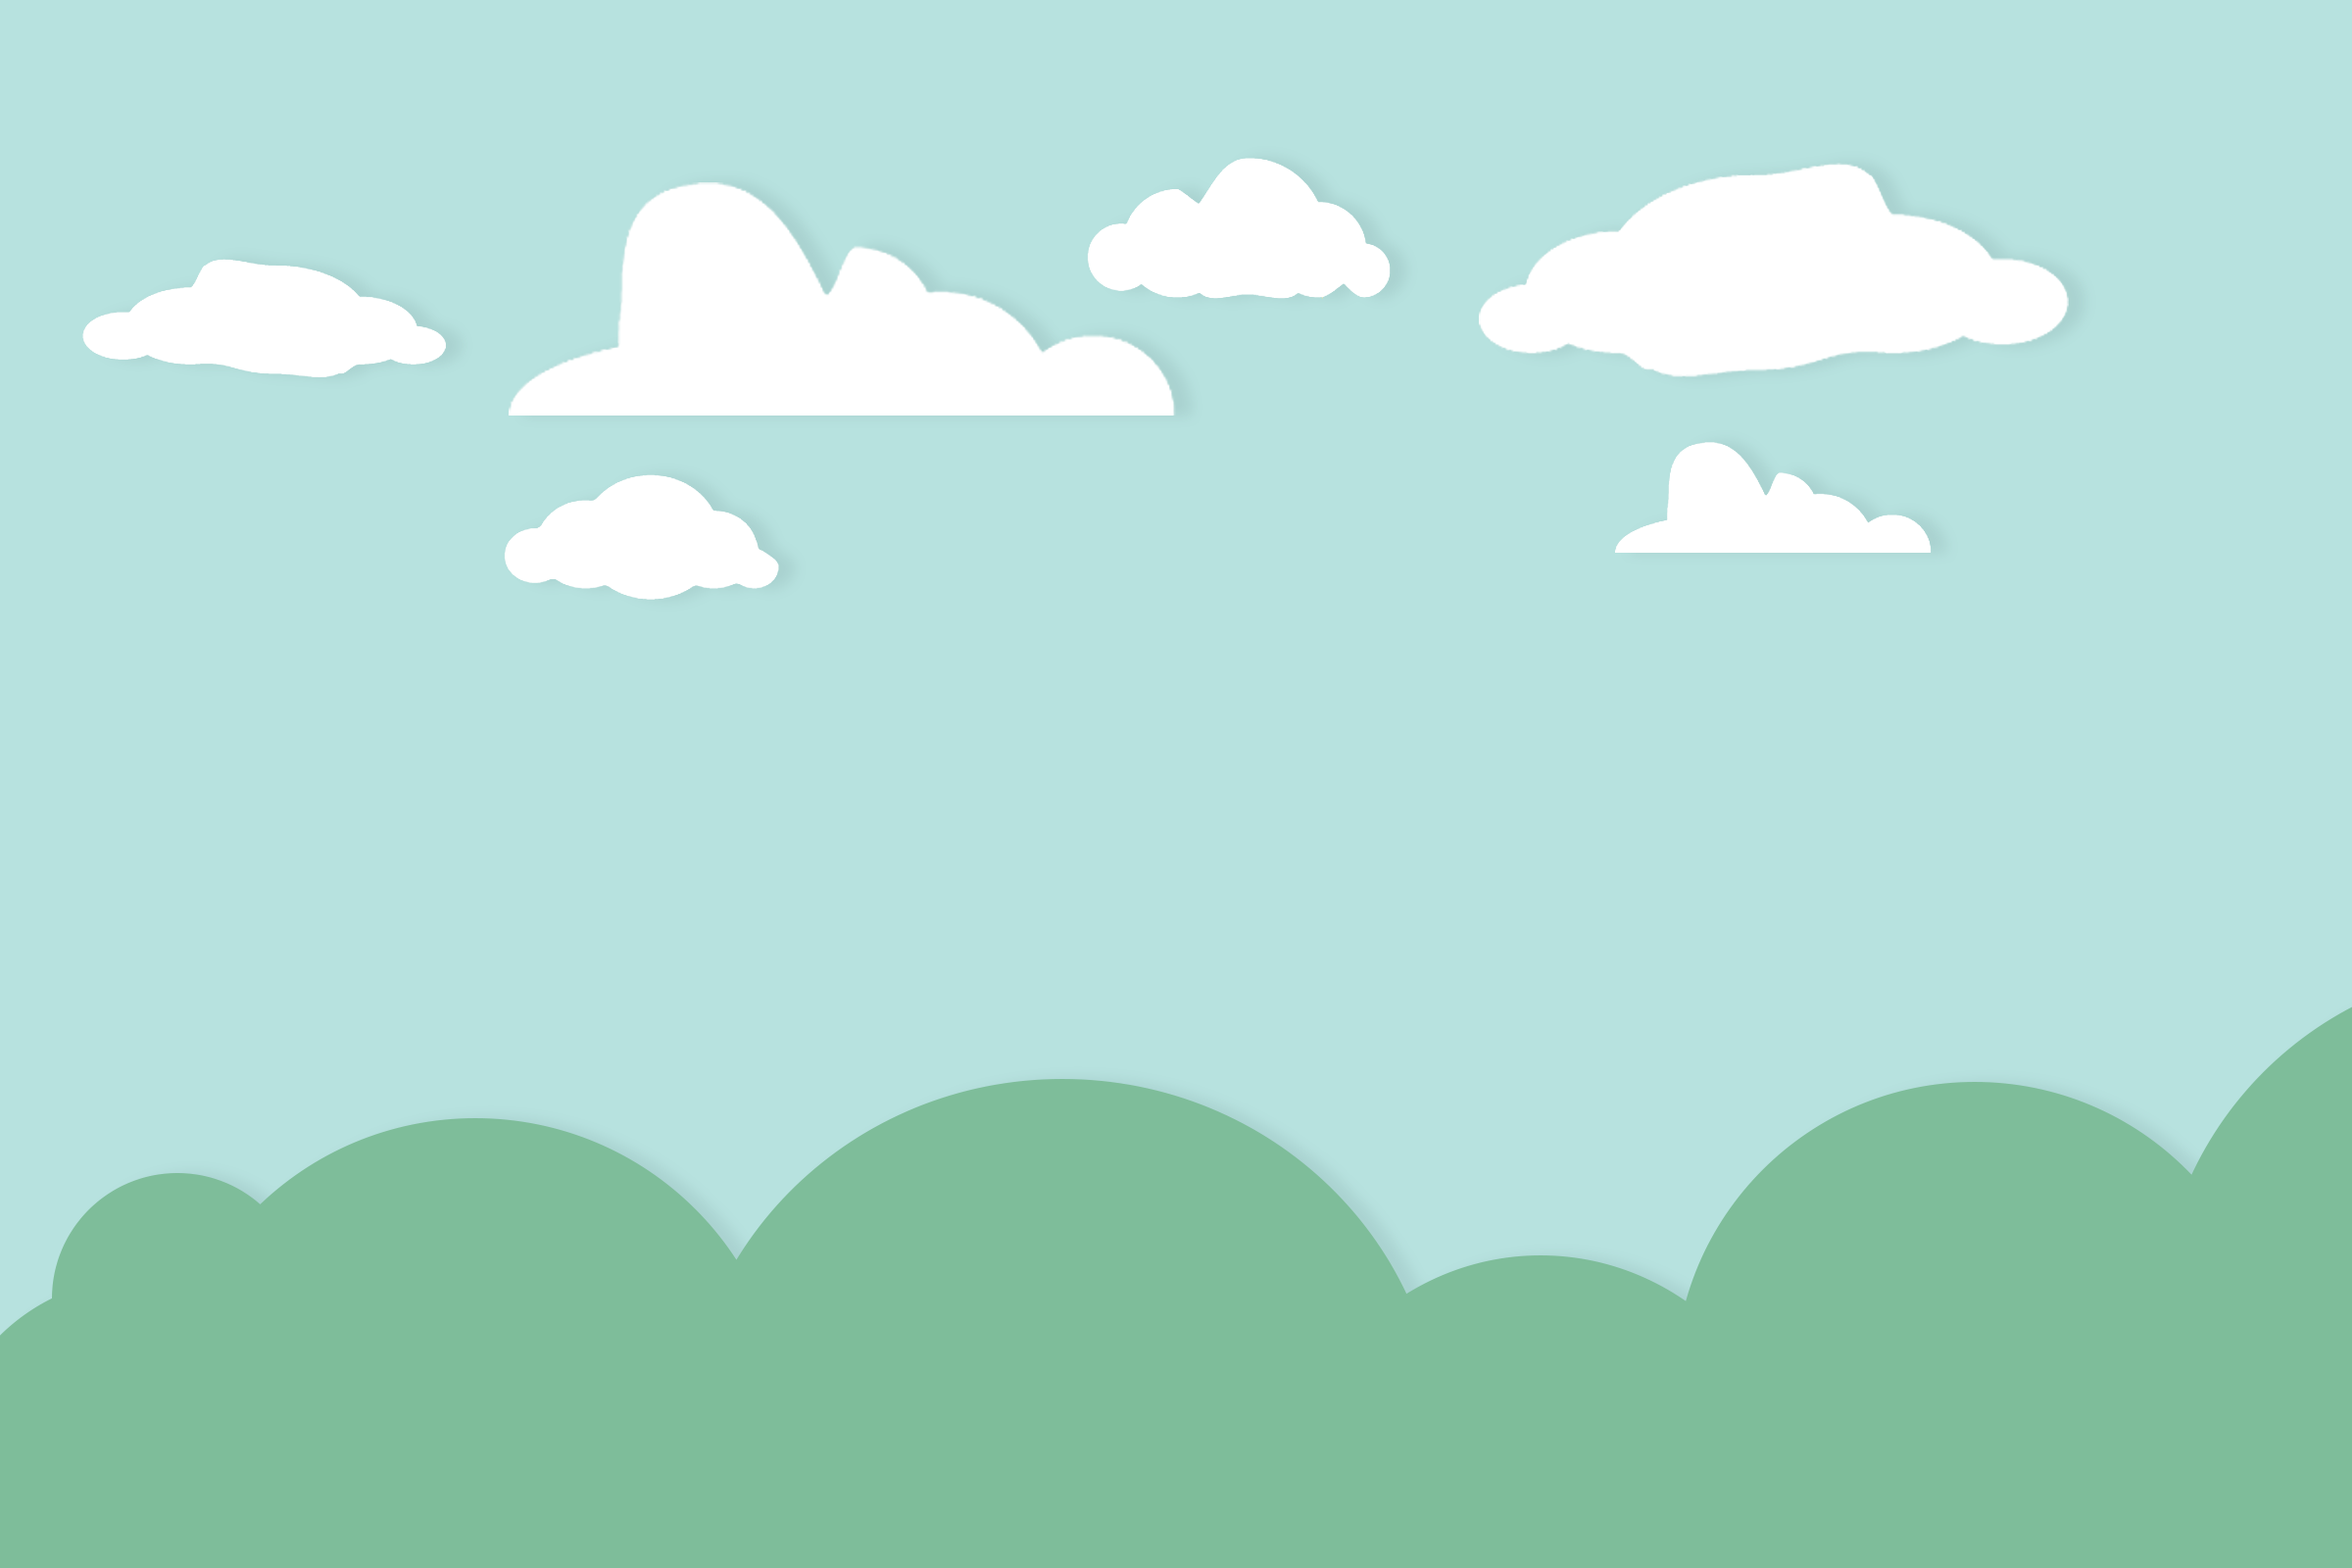
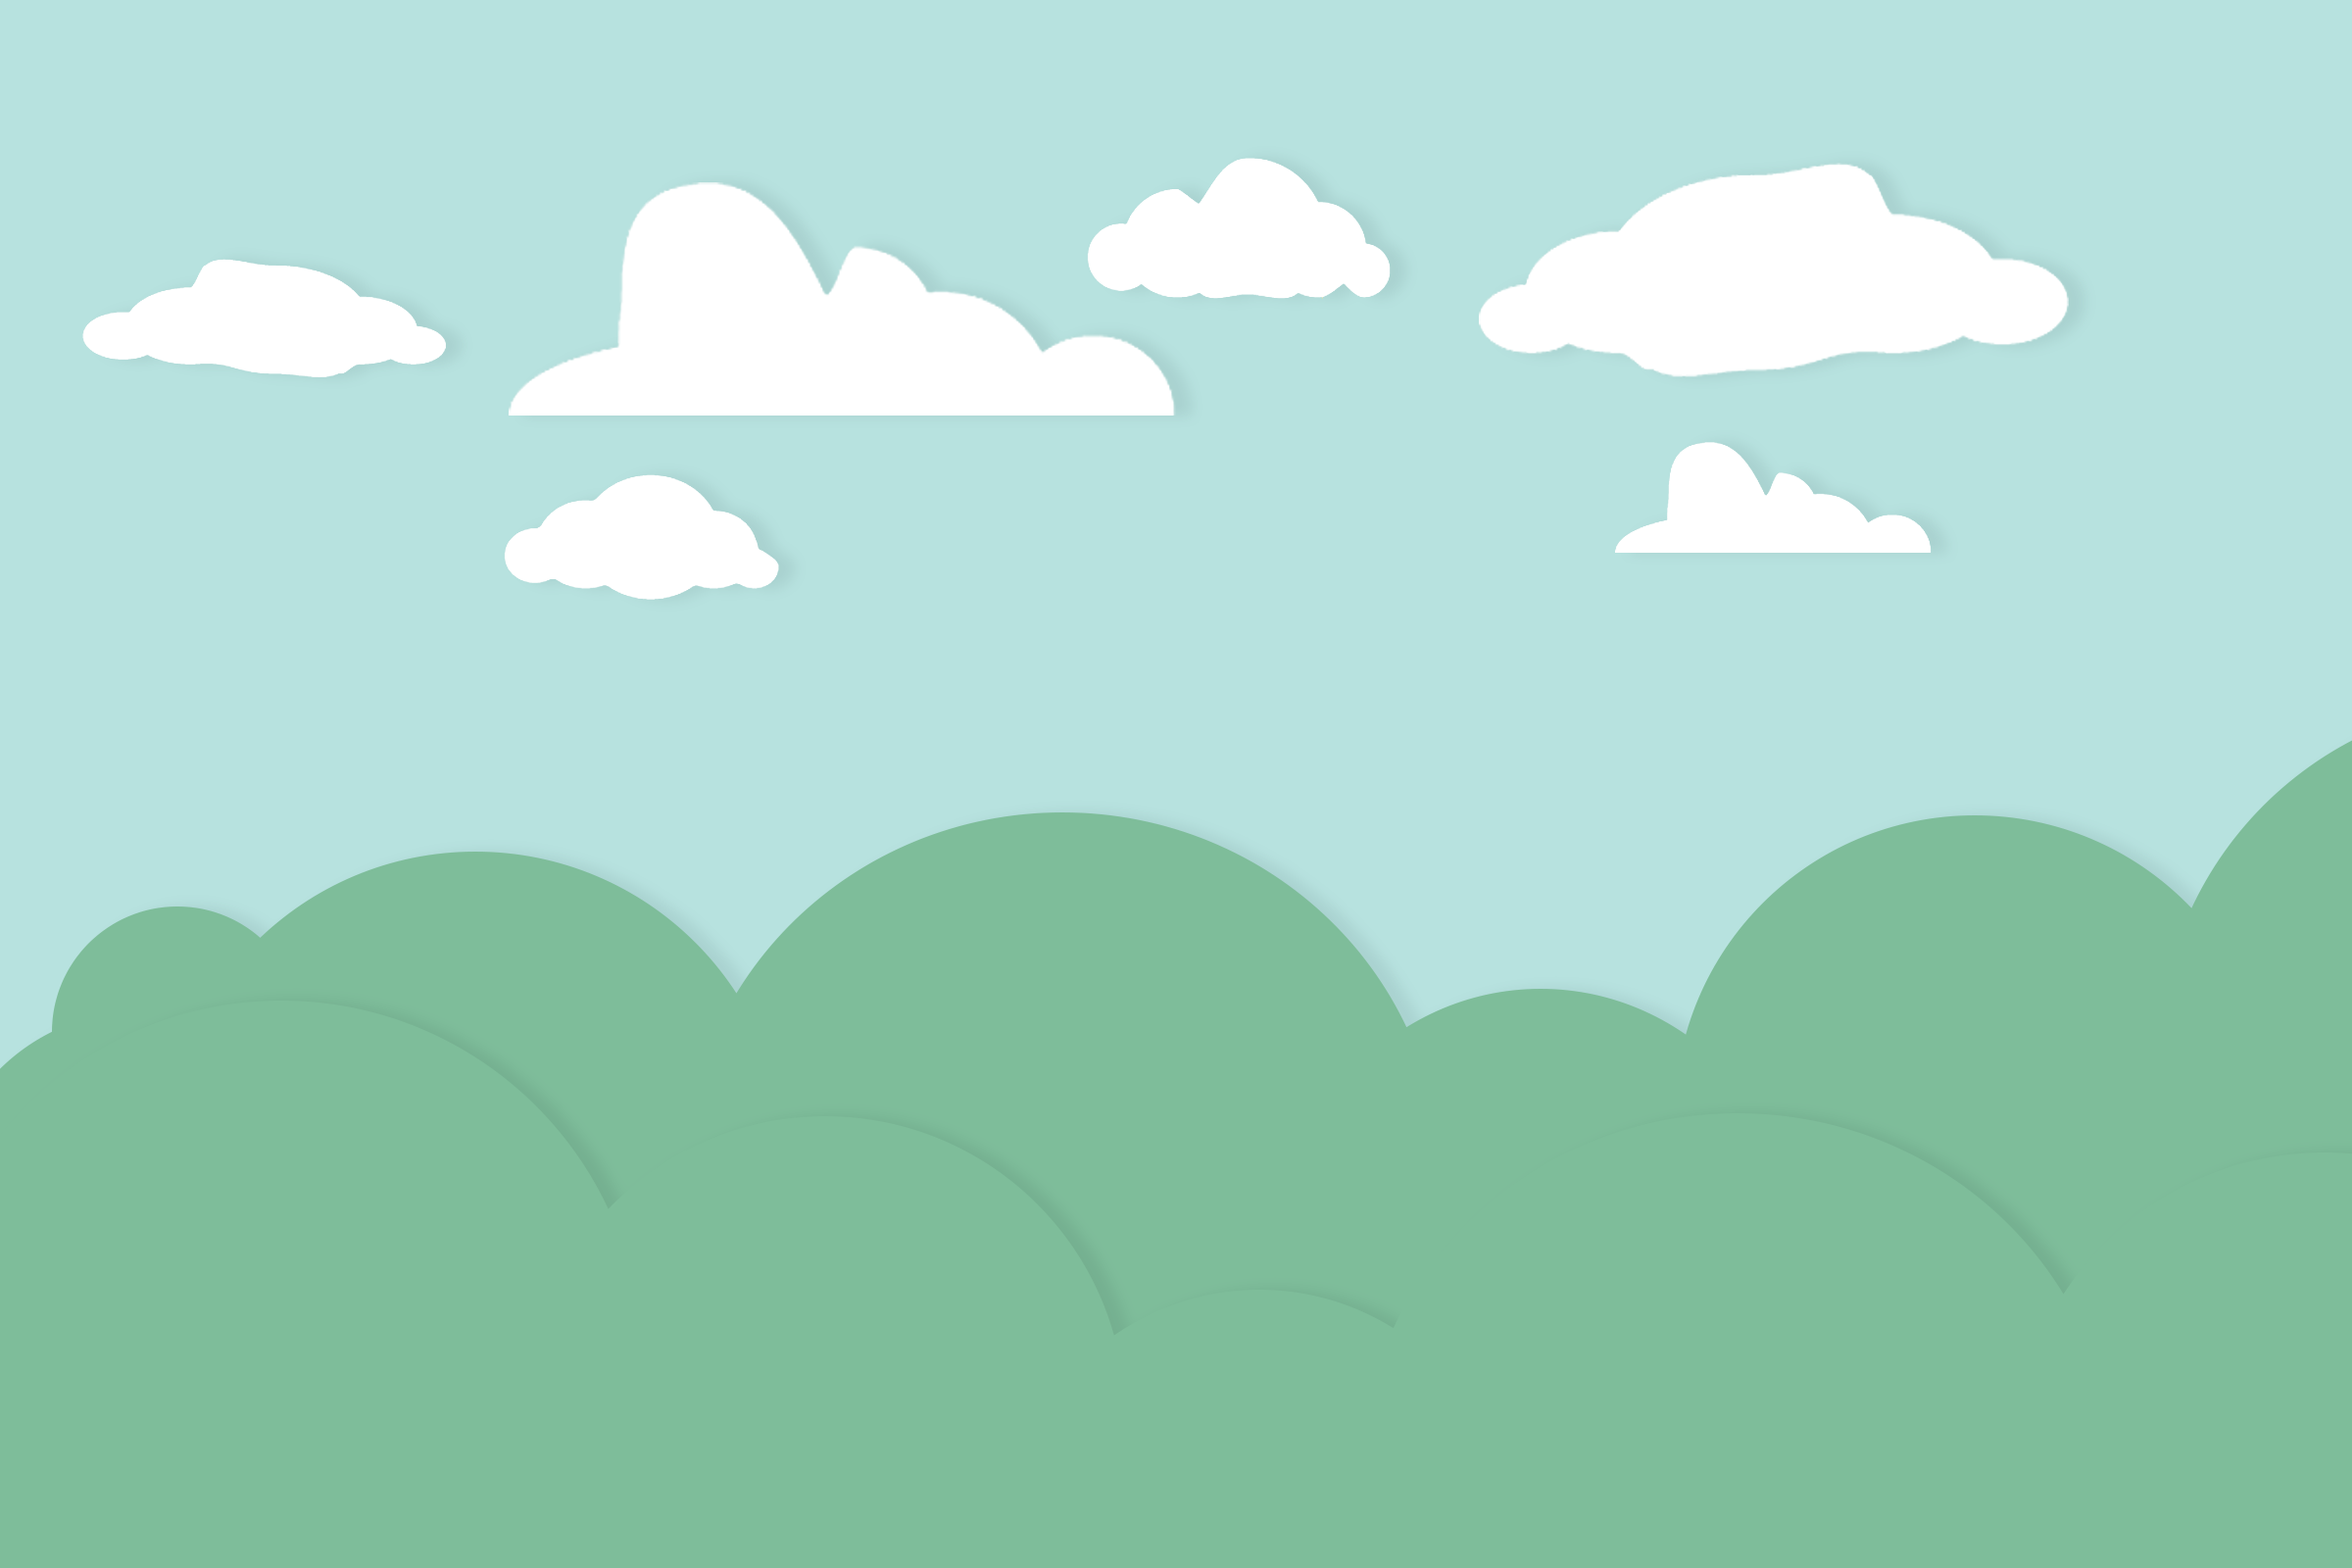
Temporary Background and Homepage

Changed region(s): [[0.0, 0.4688, 1.0, 0.8438]]

diff --git a/style.css b/style.css
@@ -368,11 +368,11 @@ input:-webkit-autofill:focus {
 
 .client-area,
 .header-area {
-    background: #000000 url('images/parallax-2.jpg') no-repeat scroll center center / cover;
+    background: #000000 url('images/vhhacksbackground.png') no-repeat scroll center center / cover;
 }
 
 .anlge-bg {
-    background: url('images/angle-bg.png') no-repeat scroll center bottom -120px / 100% auto;
+    background: url('images/Flat_Vancouver_2.png') no-repeat scroll center bottom -120px / 100% auto;
 }
 
 .overlay {

diff --git a/index.html b/index.html
@@ -75,7 +75,7 @@
 
 
     <!--Header-area-->
-    <header class="header-area overlay full-height relative v-center" id="home-page">
+    <header class="header-area full-height relative v-center" id="home-page">
         <div class="absolute anlge-bg"></div>
         <div class="container">
             <div class="row v-center">
